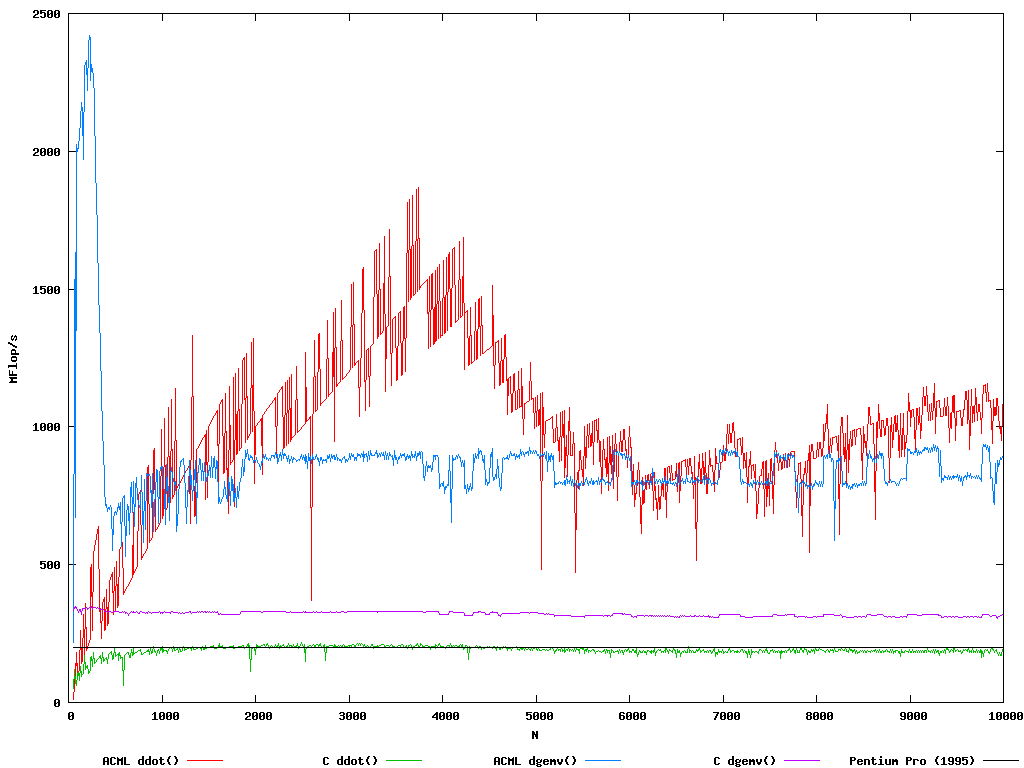
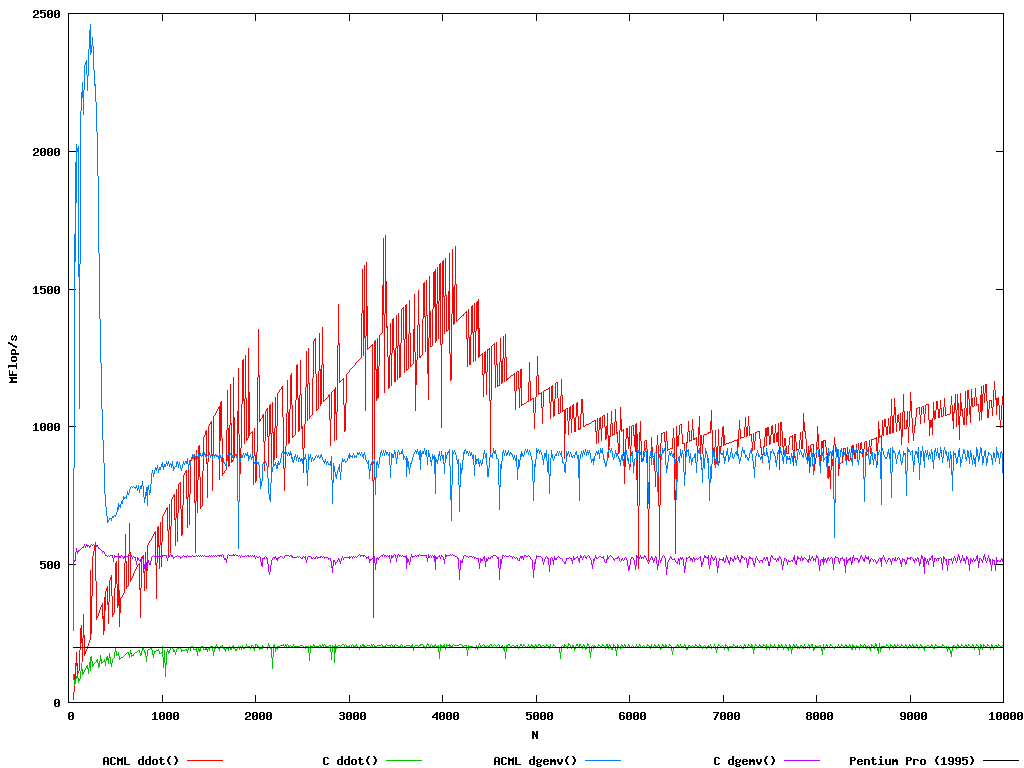
updated for optimized C code using -fastsse with PGI-7.2

diff --git a/blas/blas.tex b/blas/blas.tex
@@ -165,7 +165,7 @@ Users should always try to use BLAS 3 calls even when they could be done with BL
 \end{center}
 \note{
 \begin{itemize}
- \item \texttt{pgcc -DACML -DBLAS1 -DBLAS2 blasSpeeds.c -lacml -pgf90libs -lpgftnrtl}
+ \item \texttt{pgcc -fastsse -DACML -DBLAS1 -DBLAS2 blasSpeeds.c -lacml -pgf90libs -lpgftnrtl}
  \item \texttt{pgi/7.2 acml/4.1.0}
  \item opt2218  2.613 Ghz, 2flop/Hz,  5.226 Gflop
  \item Pentium Pro 200 Mhz (1995) 1 FPU 200MFlop/s Peak
@@ -182,7 +182,7 @@ Users should always try to use BLAS 3 calls even when they could be done with BL
 \end{center}
 \note{
 \begin{itemize}
- \item \texttt{pgcc -DACML -DBLAS3 blasSpeeds.c -lacml -pgf90libs -lpgftnrtl}
+ \item \texttt{pgcc -fastsse -DACML -DBLAS3 blasSpeeds.c -lacml -pgf90libs -lpgftnrtl}
  \item \texttt{pgi/7.2 acml/4.1.0}
  \item opt2218  2.613 Ghz, 2flop/Hz,  5.226 Gflop
 \end{itemize}
